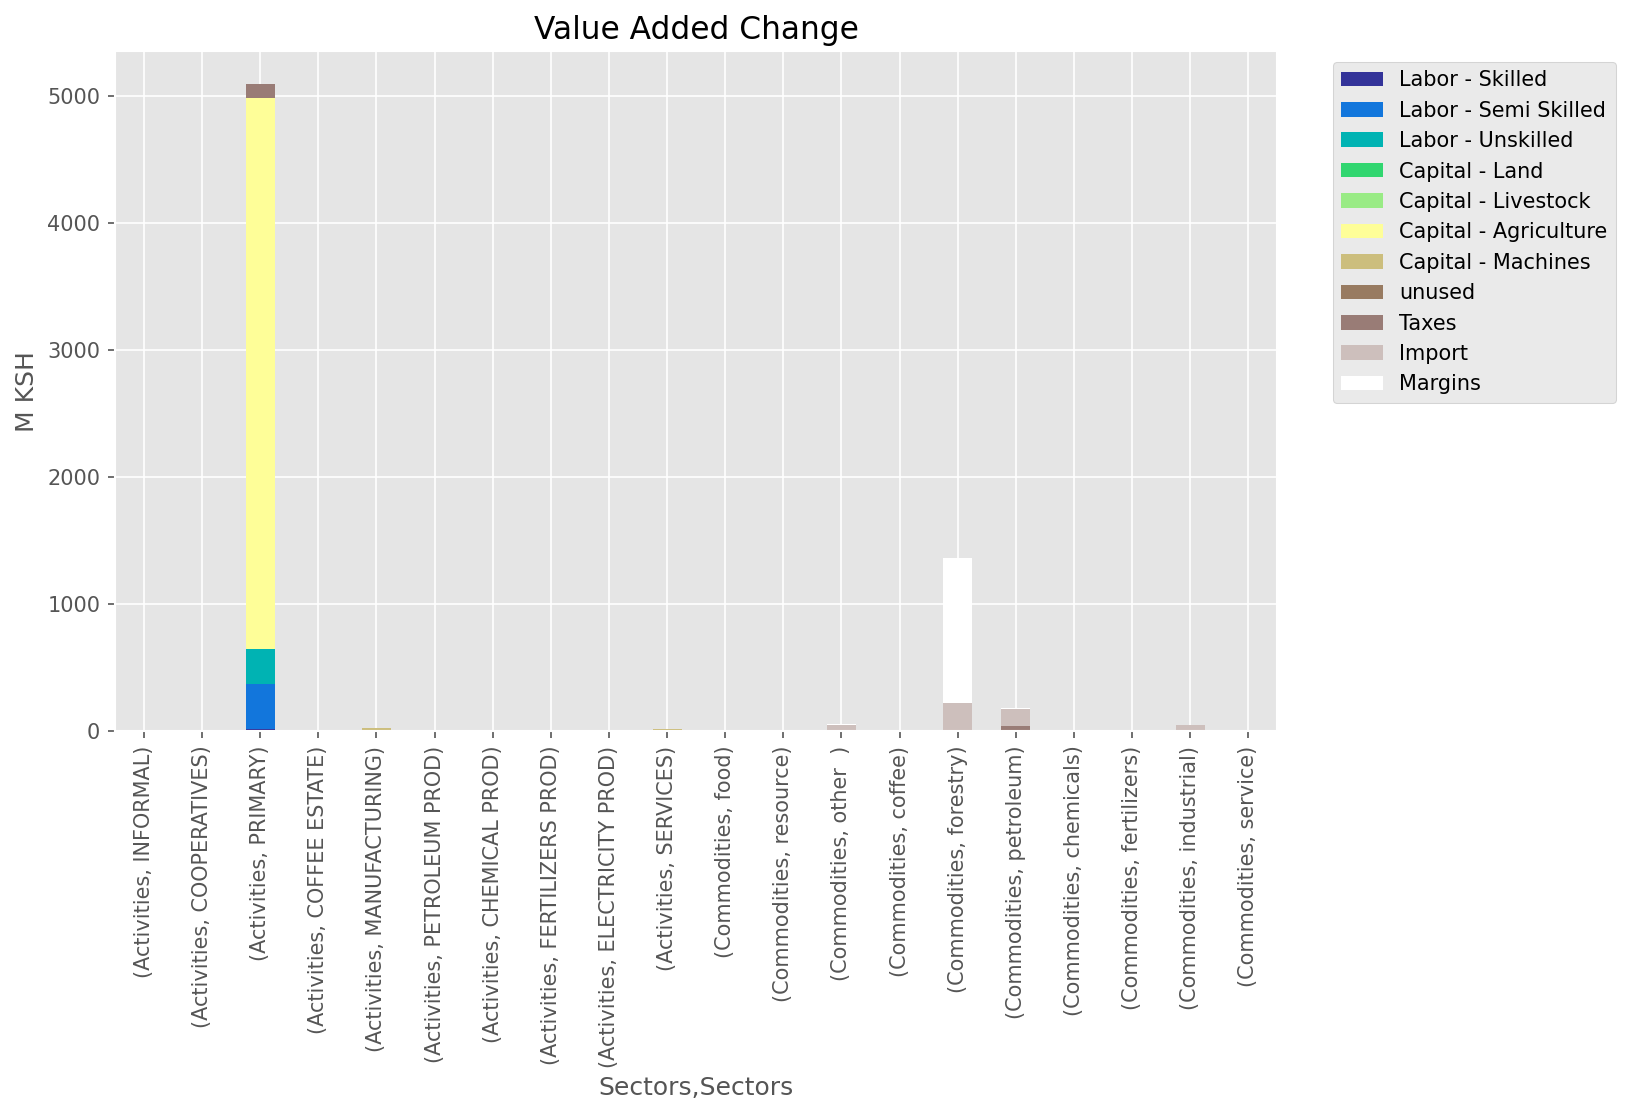
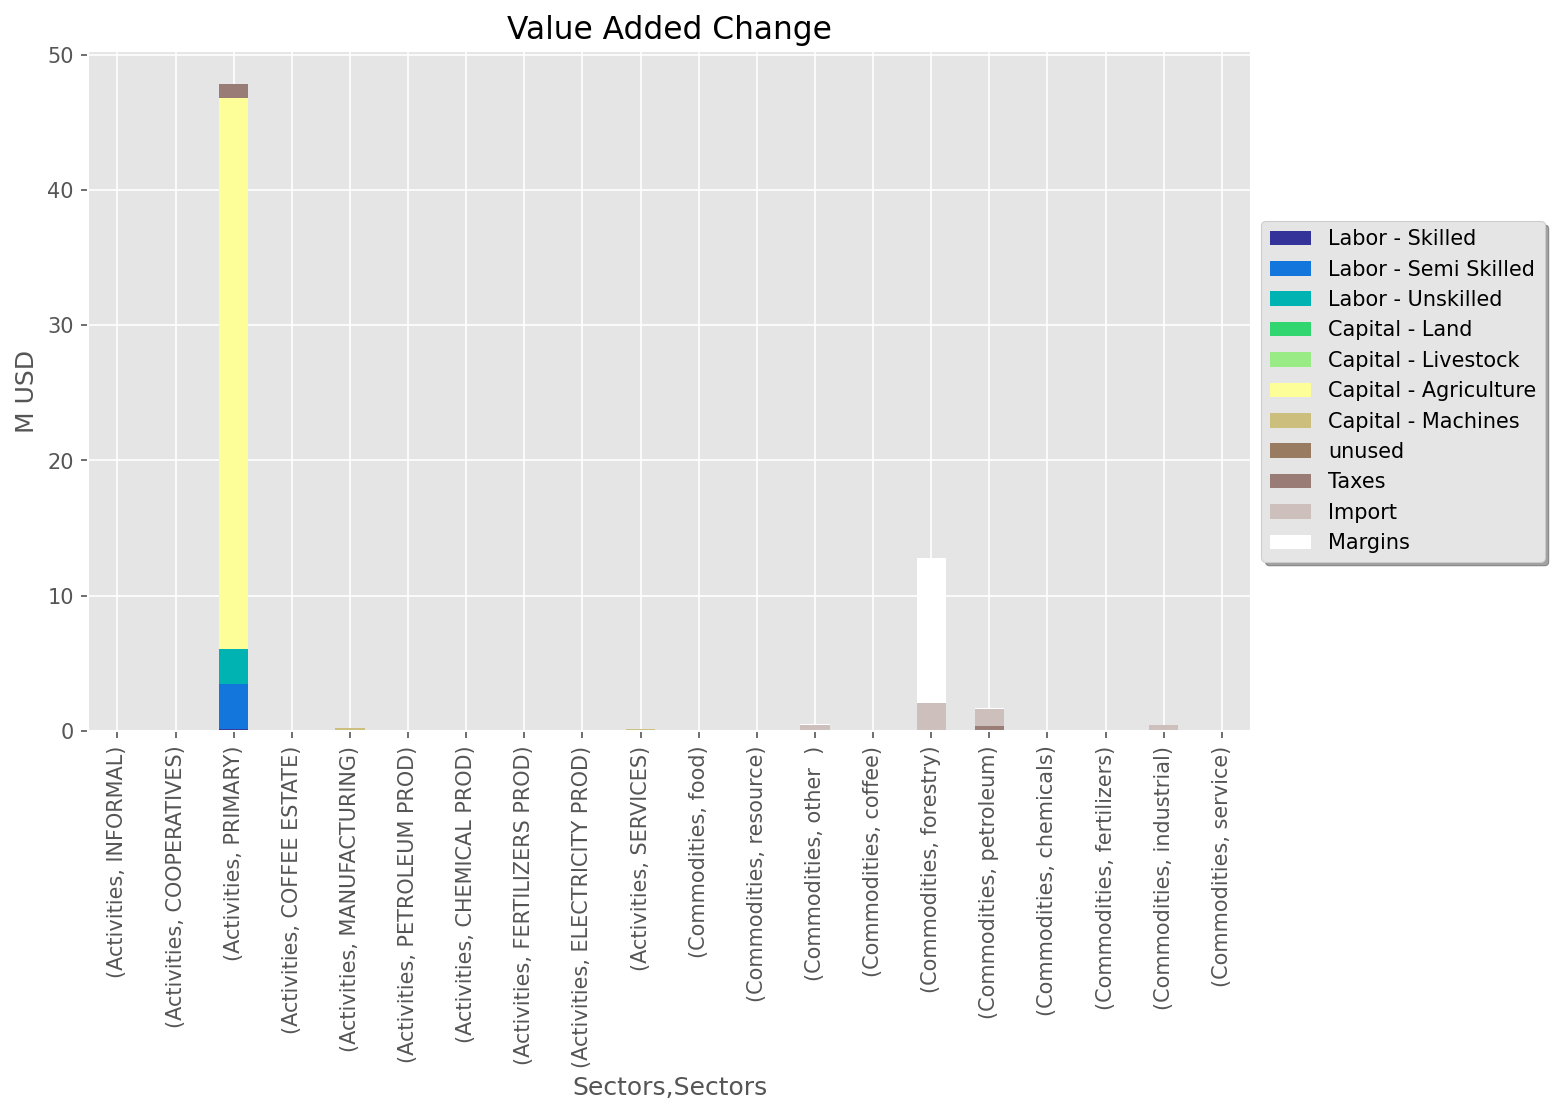
some bugs fixed

diff --git a/CVX_Kenya/New Code/functions/plots.py b/CVX_Kenya/New Code/functions/plots.py
@@ -113,7 +113,7 @@ def delta_xv(X_c,X,style,unit,m_unit,level,kind,title,ranshow,title_font,figsize
             # Depending on the input of the color, the code will be different
             try:    d_x.plot(kind='bar',figsize=figsize,stacked=True,colormap=color) # colormap if a color map is given
             except: d_x.plot(kind='bar',figsize=figsize,stacked=True,color=color) # color if a color list is given
-            plt.legend(loc = 1,bbox_to_anchor = (1.3,1))
+            plt.legend(loc='center left', bbox_to_anchor=(1, 0.5),fancybox=True, shadow=True)
         else:
             try:    d_x.plot(kind='bar',figsize=figsize,legend=None,stacked=True,colormap=color)
             except: d_x.plot(kind='bar',figsize=figsize,legend=None,stacked=True,color=color)
@@ -121,7 +121,7 @@ def delta_xv(X_c,X,style,unit,m_unit,level,kind,title,ranshow,title_font,figsize
     if info == 'VA':
         try:    d_x.plot(kind='bar',figsize=figsize,stacked=True,colormap=color)
         except: d_x.plot(kind='bar',figsize=figsize,stacked=True,color=color)
-        plt.legend(loc = 1,bbox_to_anchor = (1.3,1))        
+        plt.legend(loc='center left', bbox_to_anchor=(1, 0.5),fancybox=True, shadow=True)      
         
     # Due to competutional errors, even in the case that one thing is not changed, we may have very small differences 
     # This makes the graphs ugly!! To solve the issue we print an error for the user to make them understand.
@@ -180,8 +180,6 @@ def delta_s(X_c,X,style,level,kind,title,ranshow,title_font,figsize,directory,fi
         
     if abs(d_x.sum().sum() <= 0.000001):
         print('The following matrix seems to be unchanged in the implemented shock, so the numbers represented in the graph are very small and related to computational errors.')
-        
-
        
     # Specifing the range of showing results
     d_x = drop_fun(data=d_x, ranshow=ranshow)
@@ -198,7 +196,7 @@ def delta_s(X_c,X,style,level,kind,title,ranshow,title_font,figsize,directory,fi
     if detail:
         try:    d_x.plot(kind = 'bar' , stacked = True,colormap=color)
         except: d_x.plot(kind = 'bar' , stacked = True,color=color)
-        plt.legend(loc = 1,bbox_to_anchor = (1.6,1))
+        plt.legend(loc='center left', bbox_to_anchor=(1, 0.5),fancybox=True, shadow=True)
     else:
         try:    d_x.plot(kind = 'bar' , stacked = True,legend=False,colormap=color)
         except: d_x.plot(kind = 'bar' , stacked = True,legend=False,color=color)

diff --git a/CVX_Kenya/New Code/REP_CVX.py b/CVX_Kenya/New Code/REP_CVX.py
@@ -103,7 +103,7 @@ class C_SUT:
         else:
             X_c,X = self.X_c,self.X
             
-        delta_xv(X_c,X,style,unit,self.m_unit,level,kind,title,ranshow,title_font,figsize,directory,fig_format,color,'X',drop,None)
+        delta_xv(X_c,X,style,unit,self.m_unit,level,kind,title,ranshow,title_font,figsize,directory,fig_format,color,'X',drop)
 
 
     def plot_dv(self,aggregated=True,unit='default',level=None,kind='Absolute',
@@ -120,7 +120,7 @@ class C_SUT:
         if aggregated:   VA_c,VA = self.VA_c_agg,self.VA_agg    
         else:            VA_c,VA = self.VA_c,self.VA
             
-        delta_xv(VA_c,VA,style,unit,self.m_unit,level,kind,title,ranshow,title_font,figsize,directory,fig_format,color,'VA',drop,None)        
+        delta_xv(VA_c,VA,style,unit,self.m_unit,level,kind,title,ranshow,title_font,figsize,directory,fig_format,color,'VA',drop)        
         
         
     def plot_ds(self,indicator,aggregated=True,detail=True,unit='default',

diff --git a/CVX_Kenya/New Code/functions/check.py b/CVX_Kenya/New Code/functions/check.py
@@ -42,7 +42,7 @@ def level_check(level):
     
     levels = ['Activities' , 'Commodities']
     if level != None :
-        if level not in levels: raise ValueError('/level/ can be: \n 1. /Activities/ \n 2. /Commodities/ \n 3. /None/ ')
+        if level not in levels: raise ValueError('\'level\' can be: \n 1. \'Activities\' \n 2. \'Commodities\' \n 3. \'None\' ')
         else: title , level = ' by {}'.format(level) , [level]
     else: title , level = '' , levels
         
@@ -52,7 +52,7 @@ def kind_check (kind):
     
     kinds = ['Absolute','Percentage']
     if kind not in kinds:
-        raise ValueError('/kind/ can be: \n 1. /Absolute/ /n 2. /Percentage/')
+        raise ValueError('\'kind\' can be: \n 1. \'Absolute\' /n 2. \'Percentage\'')
     
     return kind
     

diff --git a/CVX_Kenya/New Code/try.py b/CVX_Kenya/New Code/try.py
@@ -11,4 +11,4 @@ a=cvx.C_SUT(path=r'Database\Kenya_2014_SAM.xlsx',unit='M KSH')
 #%%
 a.shock_calc(path=r'Shading_trees.xlsx',Y=True)  
 #%%
-a.plot_ds(indicator='an',kind='Percentage')
+a.plot_dv(unit='M USD',level='Activities')
